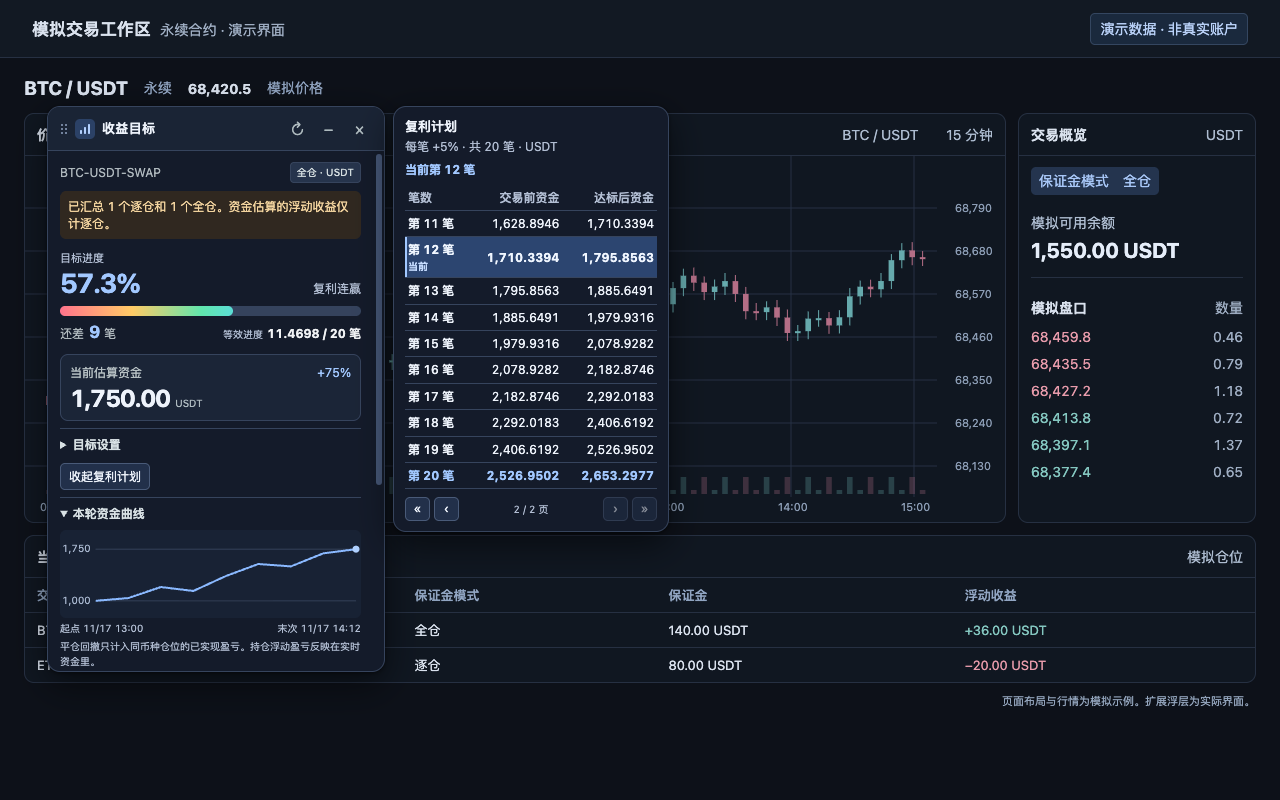
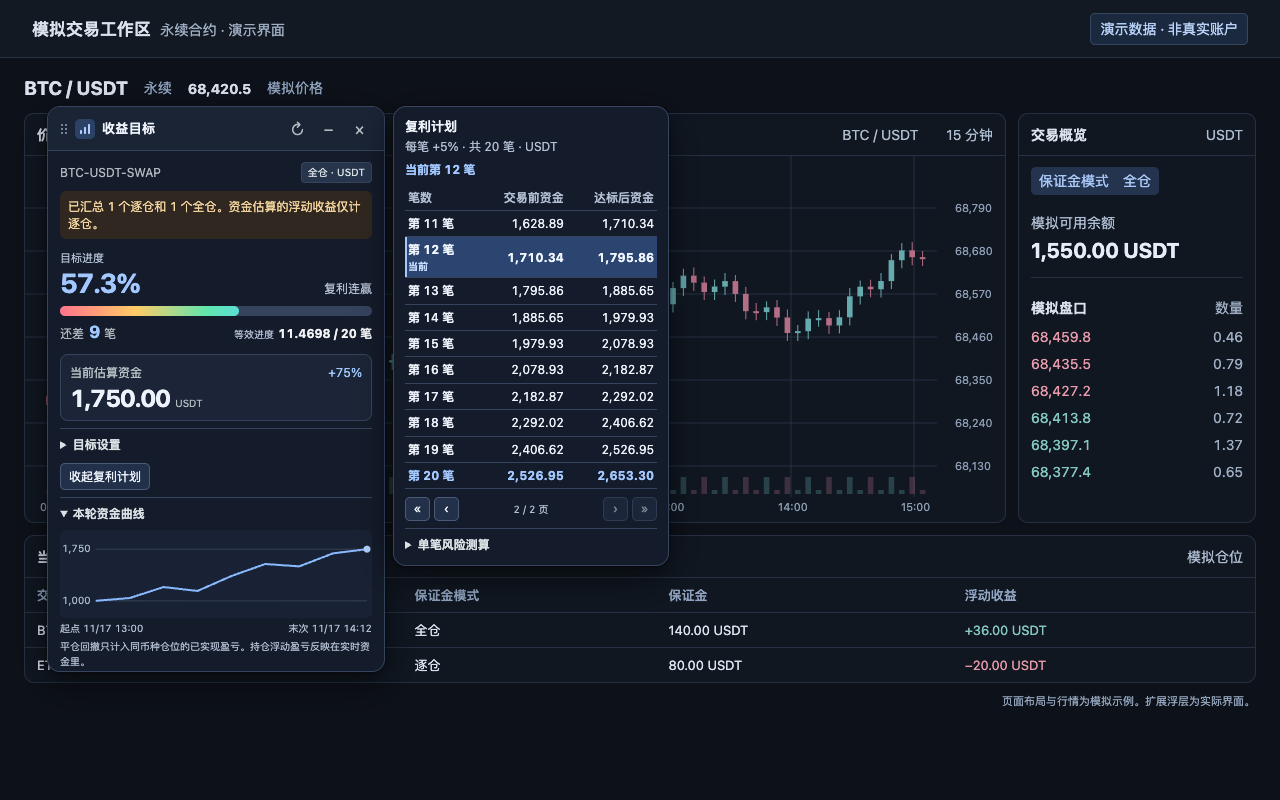
Show two decimals in the compounding table

diff --git a/src/overlay-ui.js b/src/overlay-ui.js
@@ -14,7 +14,7 @@
   });
   const dates = new Intl.DateTimeFormat('zh-CN', { month: '2-digit', day: '2-digit', hour: '2-digit', minute: '2-digit', hour12: false });
   const progressNumbers = new Intl.NumberFormat('zh-CN', { maximumFractionDigits: 1 });
-  const compactProgressNumbers = new Intl.NumberFormat('zh-CN', { minimumFractionDigits: 2, maximumFractionDigits: 2 });
+  const twoDecimalNumbers = new Intl.NumberFormat('zh-CN', { minimumFractionDigits: 2, maximumFractionDigits: 2 });
   const schedulePageSize = 10;
   const drawdownMessage = '保持冷静，避免情绪化交易';
   const drawdownEnglish = 'STAY CALM. DON’T REVENGE TRADE.';
@@ -979,8 +979,8 @@
         return element('tr', row,
           element('th', { scope: 'row' }, '第 ' + numbers.format(win) + ' 笔',
             element('span', { class: 'schedule-win-state', hidden: '' })),
-          element('td', {}, formatNumber(fromCapital, true)),
-          element('td', {}, formatNumber(capital, true)));
+          element('td', {}, twoDecimalNumbers.format(fromCapital)),
+          element('td', {}, twoDecimalNumbers.format(capital)));
       });
       scheduleRows.replaceChildren(...rendered);
       byId('schedule-scroll').scrollTop = 0;
@@ -1326,7 +1326,7 @@
       const percentage = percent === null ? '—' :
         (!progress.achieved && percent > 99.9 ? '>99.9%' : progressNumbers.format(percent) + '%');
       const compactPercentage = percent === null ? '—' :
-        compactProgressNumbers.format(progress.achieved ? percent : Math.min(percent, 99.99)) + '%';
+        twoDecimalNumbers.format(progress.achieved ? percent : Math.min(percent, 99.99)) + '%';
       const track = byId('track');
       put('progress-percent', percentage);
       put('progress-state', progress?.achieved ? '已达标' : configured ? goalModes[goalMode].title : '先设置目标');

diff --git a/README.md b/README.md
@@ -2,13 +2,13 @@
 
 在 OKX 永续合约交易页设定一个资金目标，直接看离目标还有多远。复利连赢模式会把当前资金换算成等效进度，显示按每笔目标收益率还差几笔。面板也支持按百分比或固定金额设定增长目标。
 
-**[下载 v2.2.14 安装 ZIP](https://github.com/mxjl620/okx-trade-goal/releases/download/v2.2.14/okx-trade-goal-2.2.14-chrome-store.zip)** · Chrome 130 或更新版本 · [版本说明](https://github.com/mxjl620/okx-trade-goal/releases/tag/v2.2.14) · [隐私政策](PRIVACY.md)
+**[下载 v2.2.15 安装 ZIP](https://github.com/mxjl620/okx-trade-goal/releases/download/v2.2.15/okx-trade-goal-2.2.15.zip)** · Chrome 130 或更新版本 · [版本说明](https://github.com/mxjl620/okx-trade-goal/releases/tag/v2.2.15) · [隐私政策](PRIVACY.md)
 
 ![交易目标浮层及复利计划，使用模拟交易数据](docs/compound-plan.png)
 
 ## 安装与使用
 
-1. 从 [GitHub Release](https://github.com/mxjl620/okx-trade-goal/releases/tag/v2.2.14) 下载扩展安装 ZIP 并解压。
+1. 从 [GitHub Release](https://github.com/mxjl620/okx-trade-goal/releases/tag/v2.2.15) 下载扩展安装 ZIP 并解压。
 2. 在 Chrome 打开 `chrome://extensions`，开启「开发者模式」。点「加载已解压的扩展程序」，选择包含 `manifest.json` 的文件夹。
 3. 登录 OKX，打开或刷新永续合约交易页。阅读首用授权说明，选择「同意并启用」，再打开下方的「当前仓位」。将交易类型和保证金模式设为全部，取消「当前交易品种」和「按币种分组」，让扩展看到完整仓位。
 4. 在「目标设置」里填写起始资金和目标，点「保存目标」。要更新平仓回撤，打开 OKX 的「历史仓位」并加载本轮相关记录。
@@ -25,7 +25,7 @@
 | 增长百分比 | 起始资金 × (1 + 目标涨幅) |
 | 增长金额 | 起始资金 + 目标增加金额 |
 
-复利计划每页列 10 笔，逐笔展示交易前与达标后的计划资金。例如以 1,000 USDT 起步、每笔目标 5%，第 1 笔是 1,000.00 → 1,050.00 USDT。边栏会高亮当前所在的一笔。等效笔数由资金变化换算，实际连赢次数要查已平仓记录。
+复利计划每页列 10 笔，逐笔展示交易前与达标后的计划资金，金额固定显示两位小数。例如以 1,000 USDT 起步、每笔目标 5%，第 1 笔是 1,000.00 → 1,050.00 USDT。边栏会高亮当前所在的一笔。等效笔数由资金变化换算，实际连赢次数要查已平仓记录。
 
 复利边栏中的「单笔风险测算」可按单笔盈利目标与假设胜率计算复利盈亏平衡线，也可按回撤预算和假设连亏笔数计算单笔亏损比例上限。两项结果以每笔交易前的账户净值为基数，使用扣费后的盈亏。测算输入只保留在当前页面。
 
@@ -59,7 +59,7 @@
 - 直接用 Chrome 加载包含 `manifest.json` 的仓库根目录，无需构建。
 - 运行 `node --test tests/*.test.cjs` 测试目标、风险与回撤计算。
 - 在 Chrome 打开 `tests/okx-history.html`，用模拟页面验证平仓记录读取。
-- 运行 `python3 scripts/package.py ./okx-trade-goal-2.2.14.zip` 生成可解压加载的扩展安装包。
+- 运行 `python3 scripts/package.py ./okx-trade-goal-2.2.15.zip` 生成可解压加载的扩展安装包。
 
 ## 打赏支持
 
